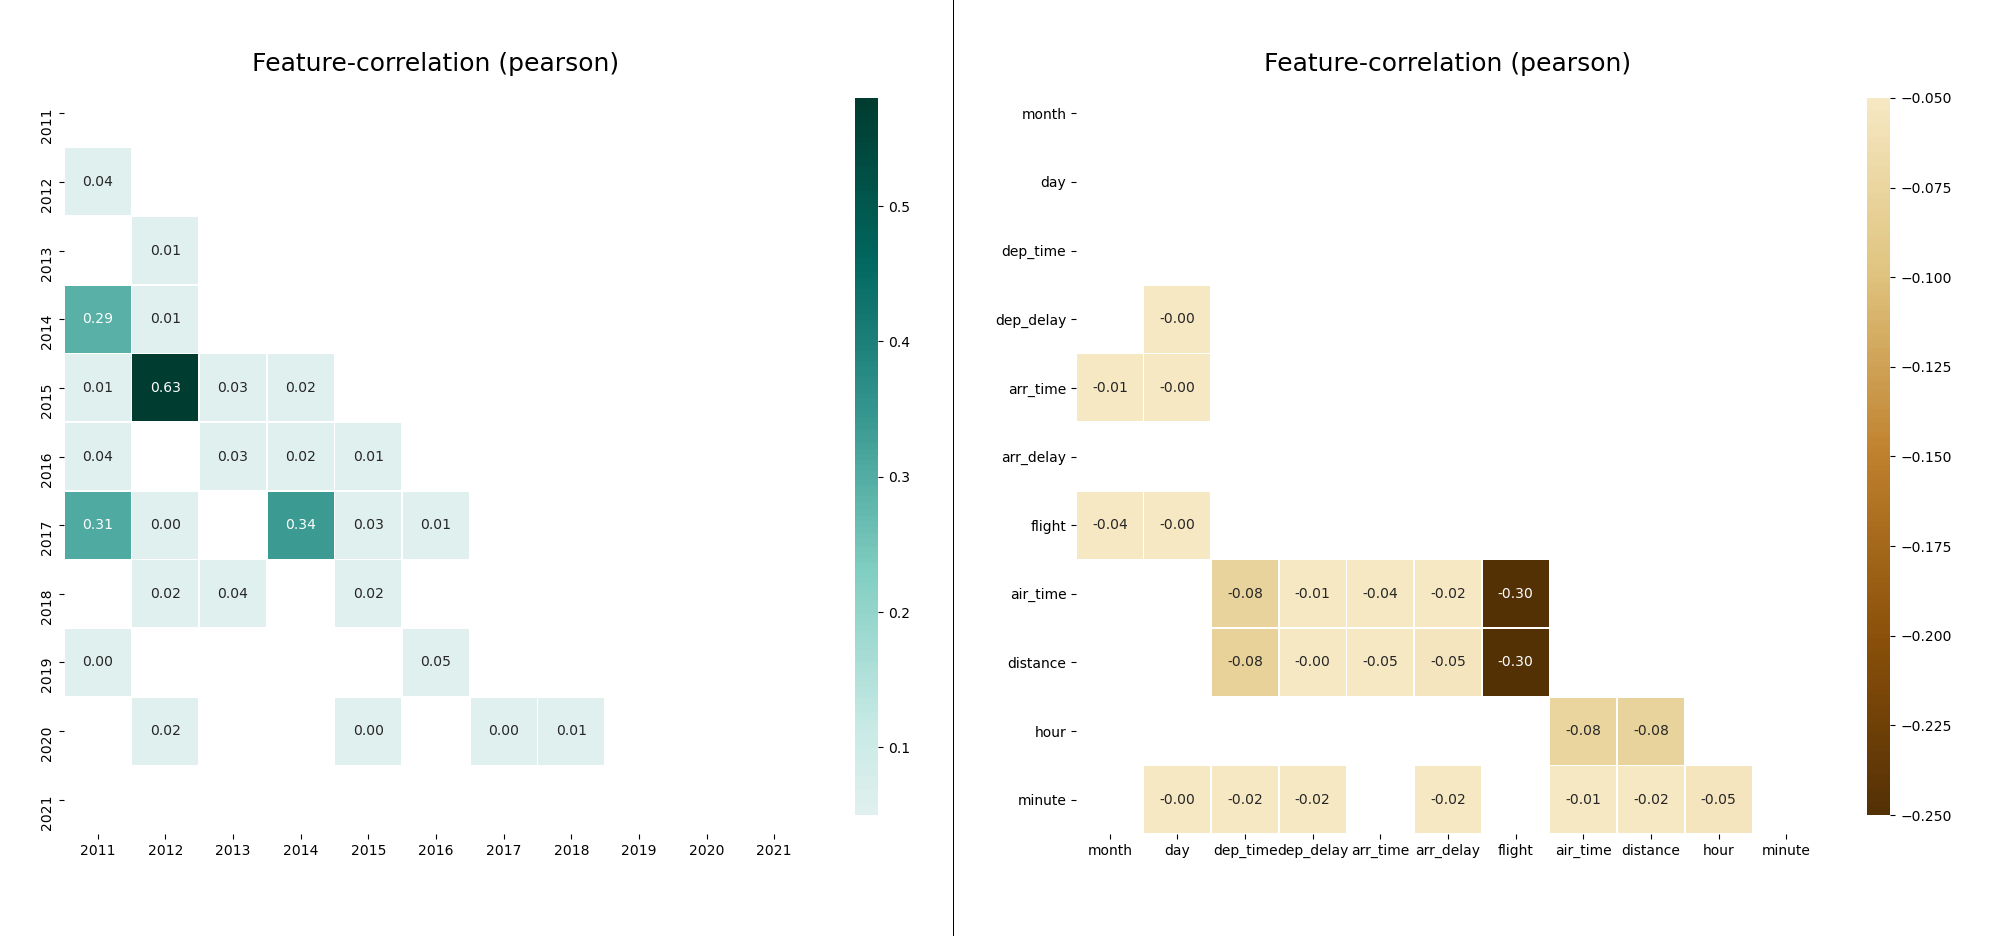
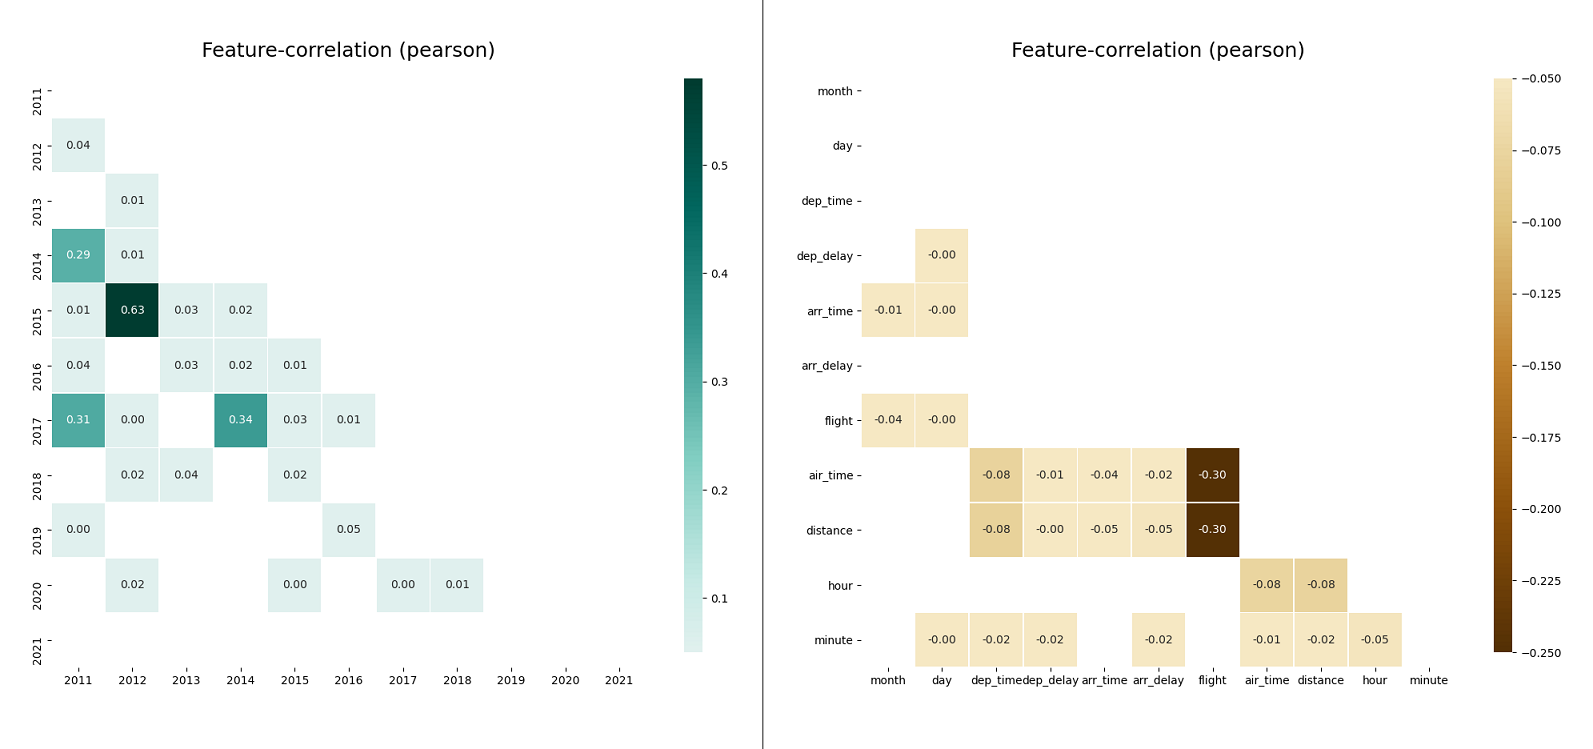
minor layout fixes

diff --git a/examples/README.md b/examples/README.md
@@ -18,6 +18,7 @@ This plot visualizes the correlation between different features. Settings includ
 
 ```python
 klib.corr_plot(df, split='pos') # displaying only positive correlations, other settings include threshold, cmap...
+klib.corr_plot(df, split='neg') # displaying only negative correlations
 ```
 
 <p align="center"><img src="https://raw.githubusercontent.com/akanz1/klib/master/examples/images/example_corr_plot.png" alt="Corr Plot Example" width="792" height="338"></p>

diff --git a/README.md b/README.md
@@ -69,6 +69,7 @@ klib.missingval_plot(df) # default representation of missing values in a DataFra
 
 ```python
 klib.corr_plot(df, split='pos') # displaying only positive correlations
+klib.corr_plot(df, split='neg') # displaying only negative correlations
 ```
 
 <p align="center"><img src="https://raw.githubusercontent.com/akanz1/klib/master/examples/images/example_corr_plot.png" alt="Corr Plot Example" width="720" height="338"></p>
